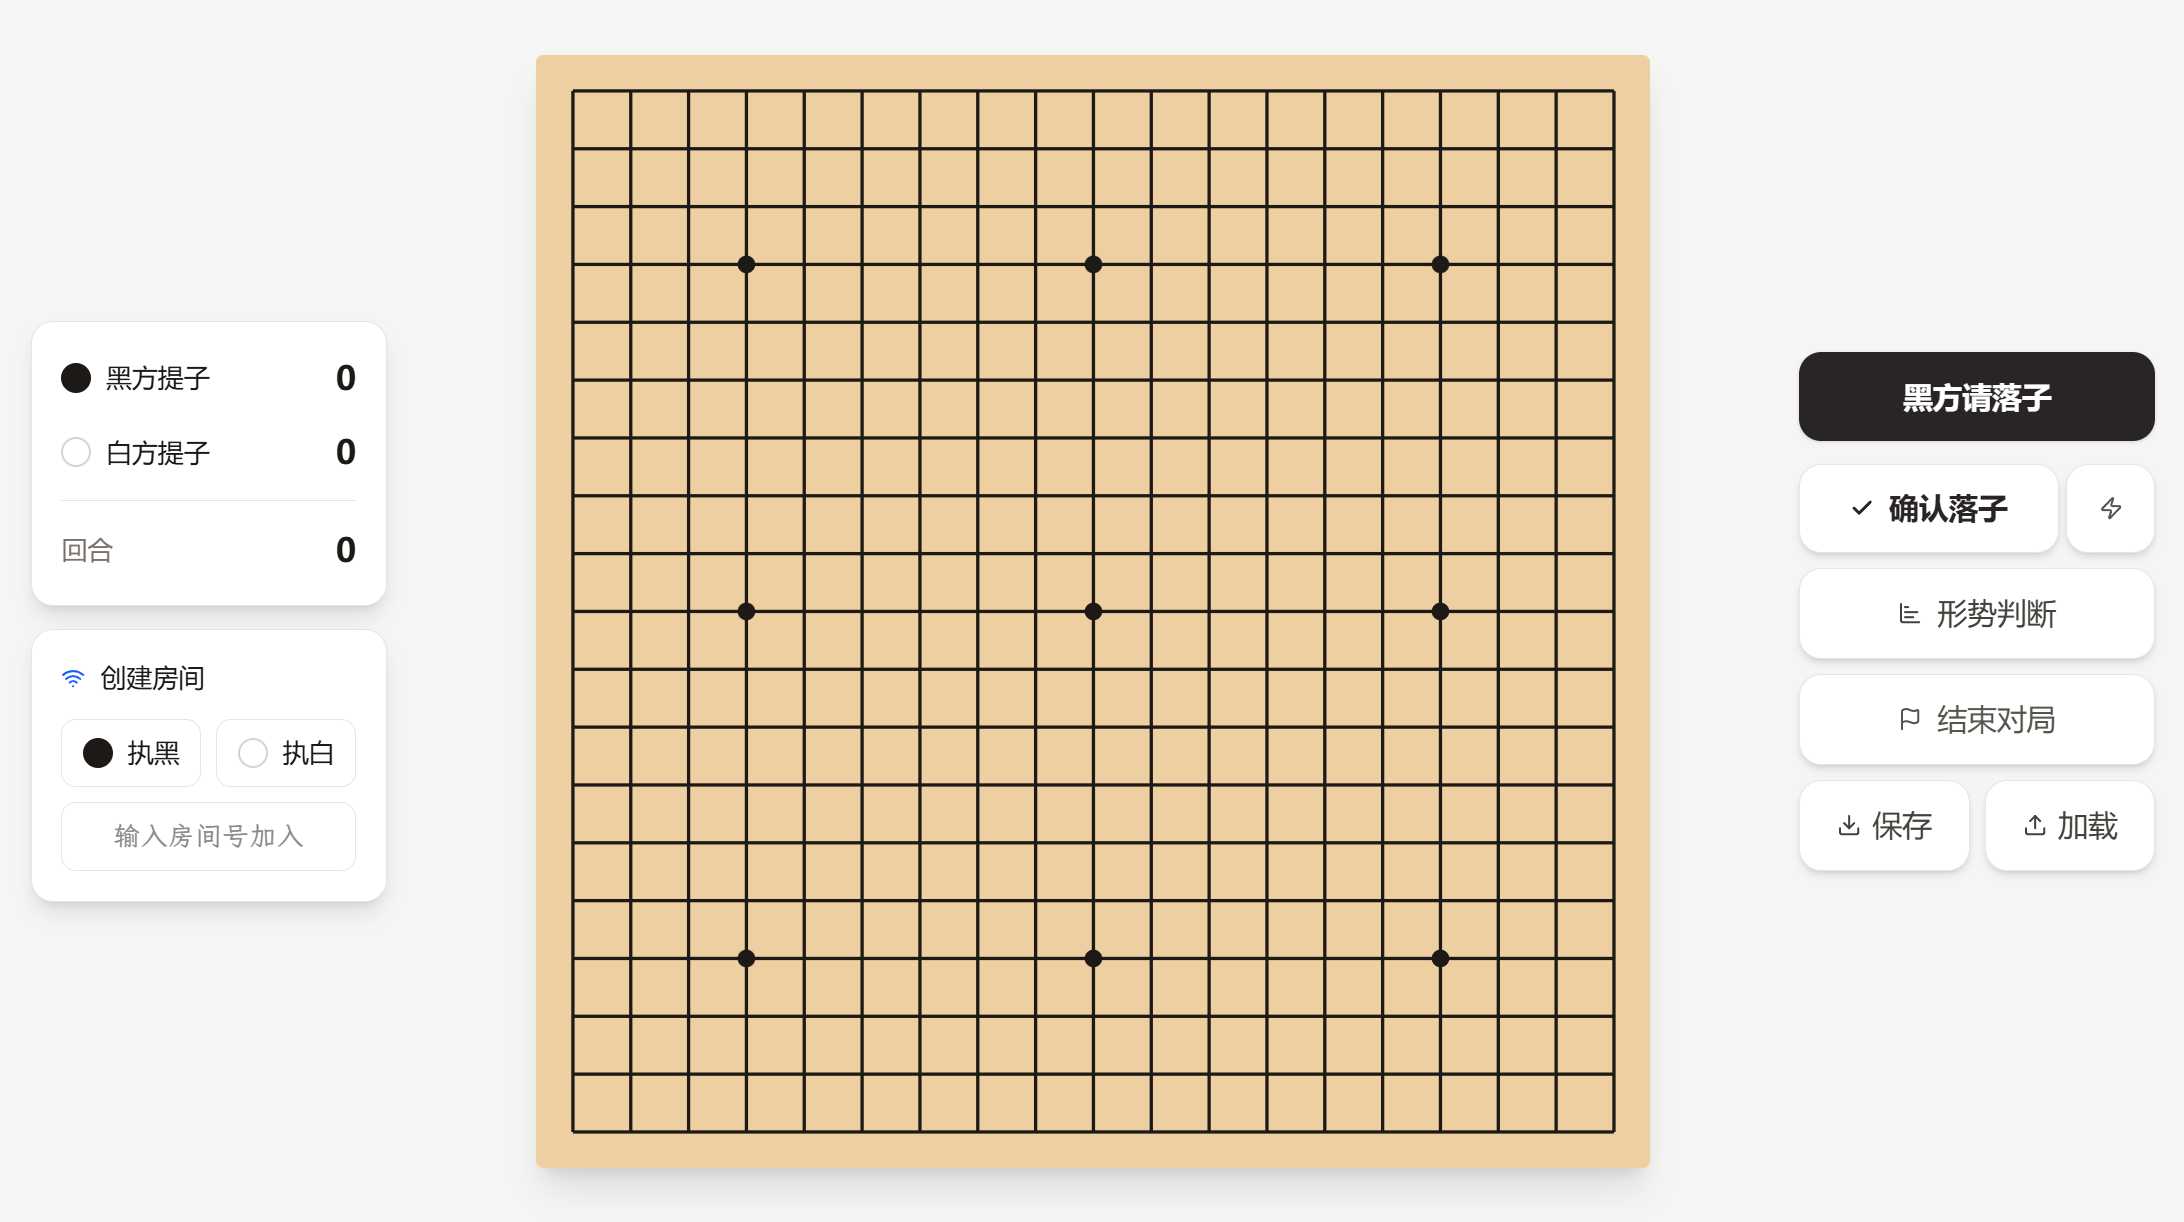
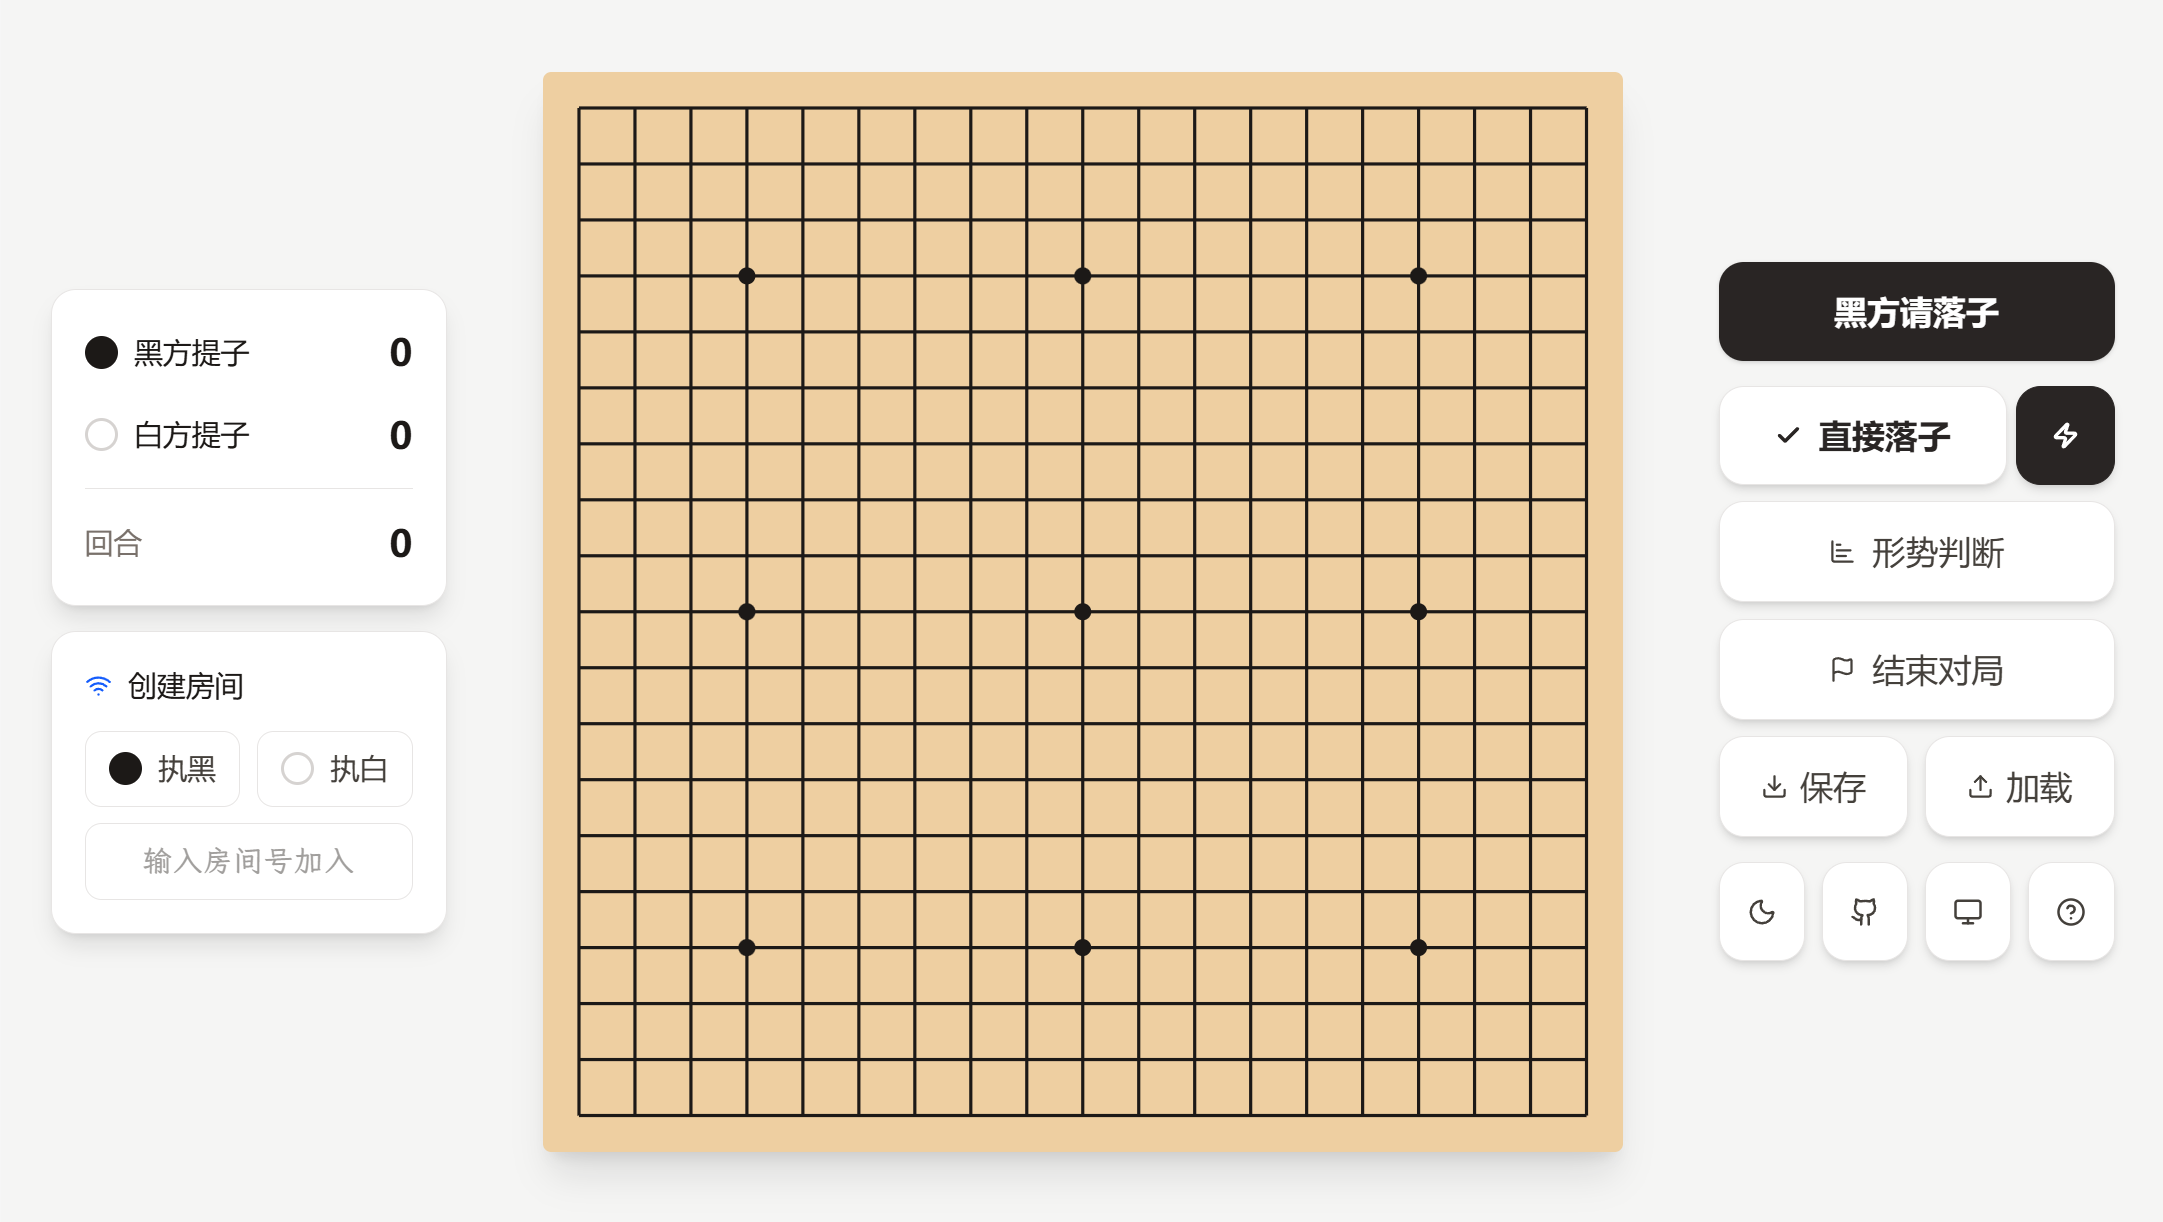
refactor: 统一项目名称为SyncGo并更新相关配置
更新项目名称从"synchronous-go"改为"SyncGo"，包括:
- 修改README.md中的项目结构说明
- 更新客户端和服务端的package.json名称
- 修正仓库URL并添加关键词
- 更新预览图片

diff --git a/README.md b/README.md
@@ -69,7 +69,7 @@ npm run build
 ## 项目结构
 
 ```
-同步围棋/
+SyncGo/
 ├── App.tsx           # 主应用组件
 ├── components/
 │   └── Goban.tsx     # 棋盘组件
